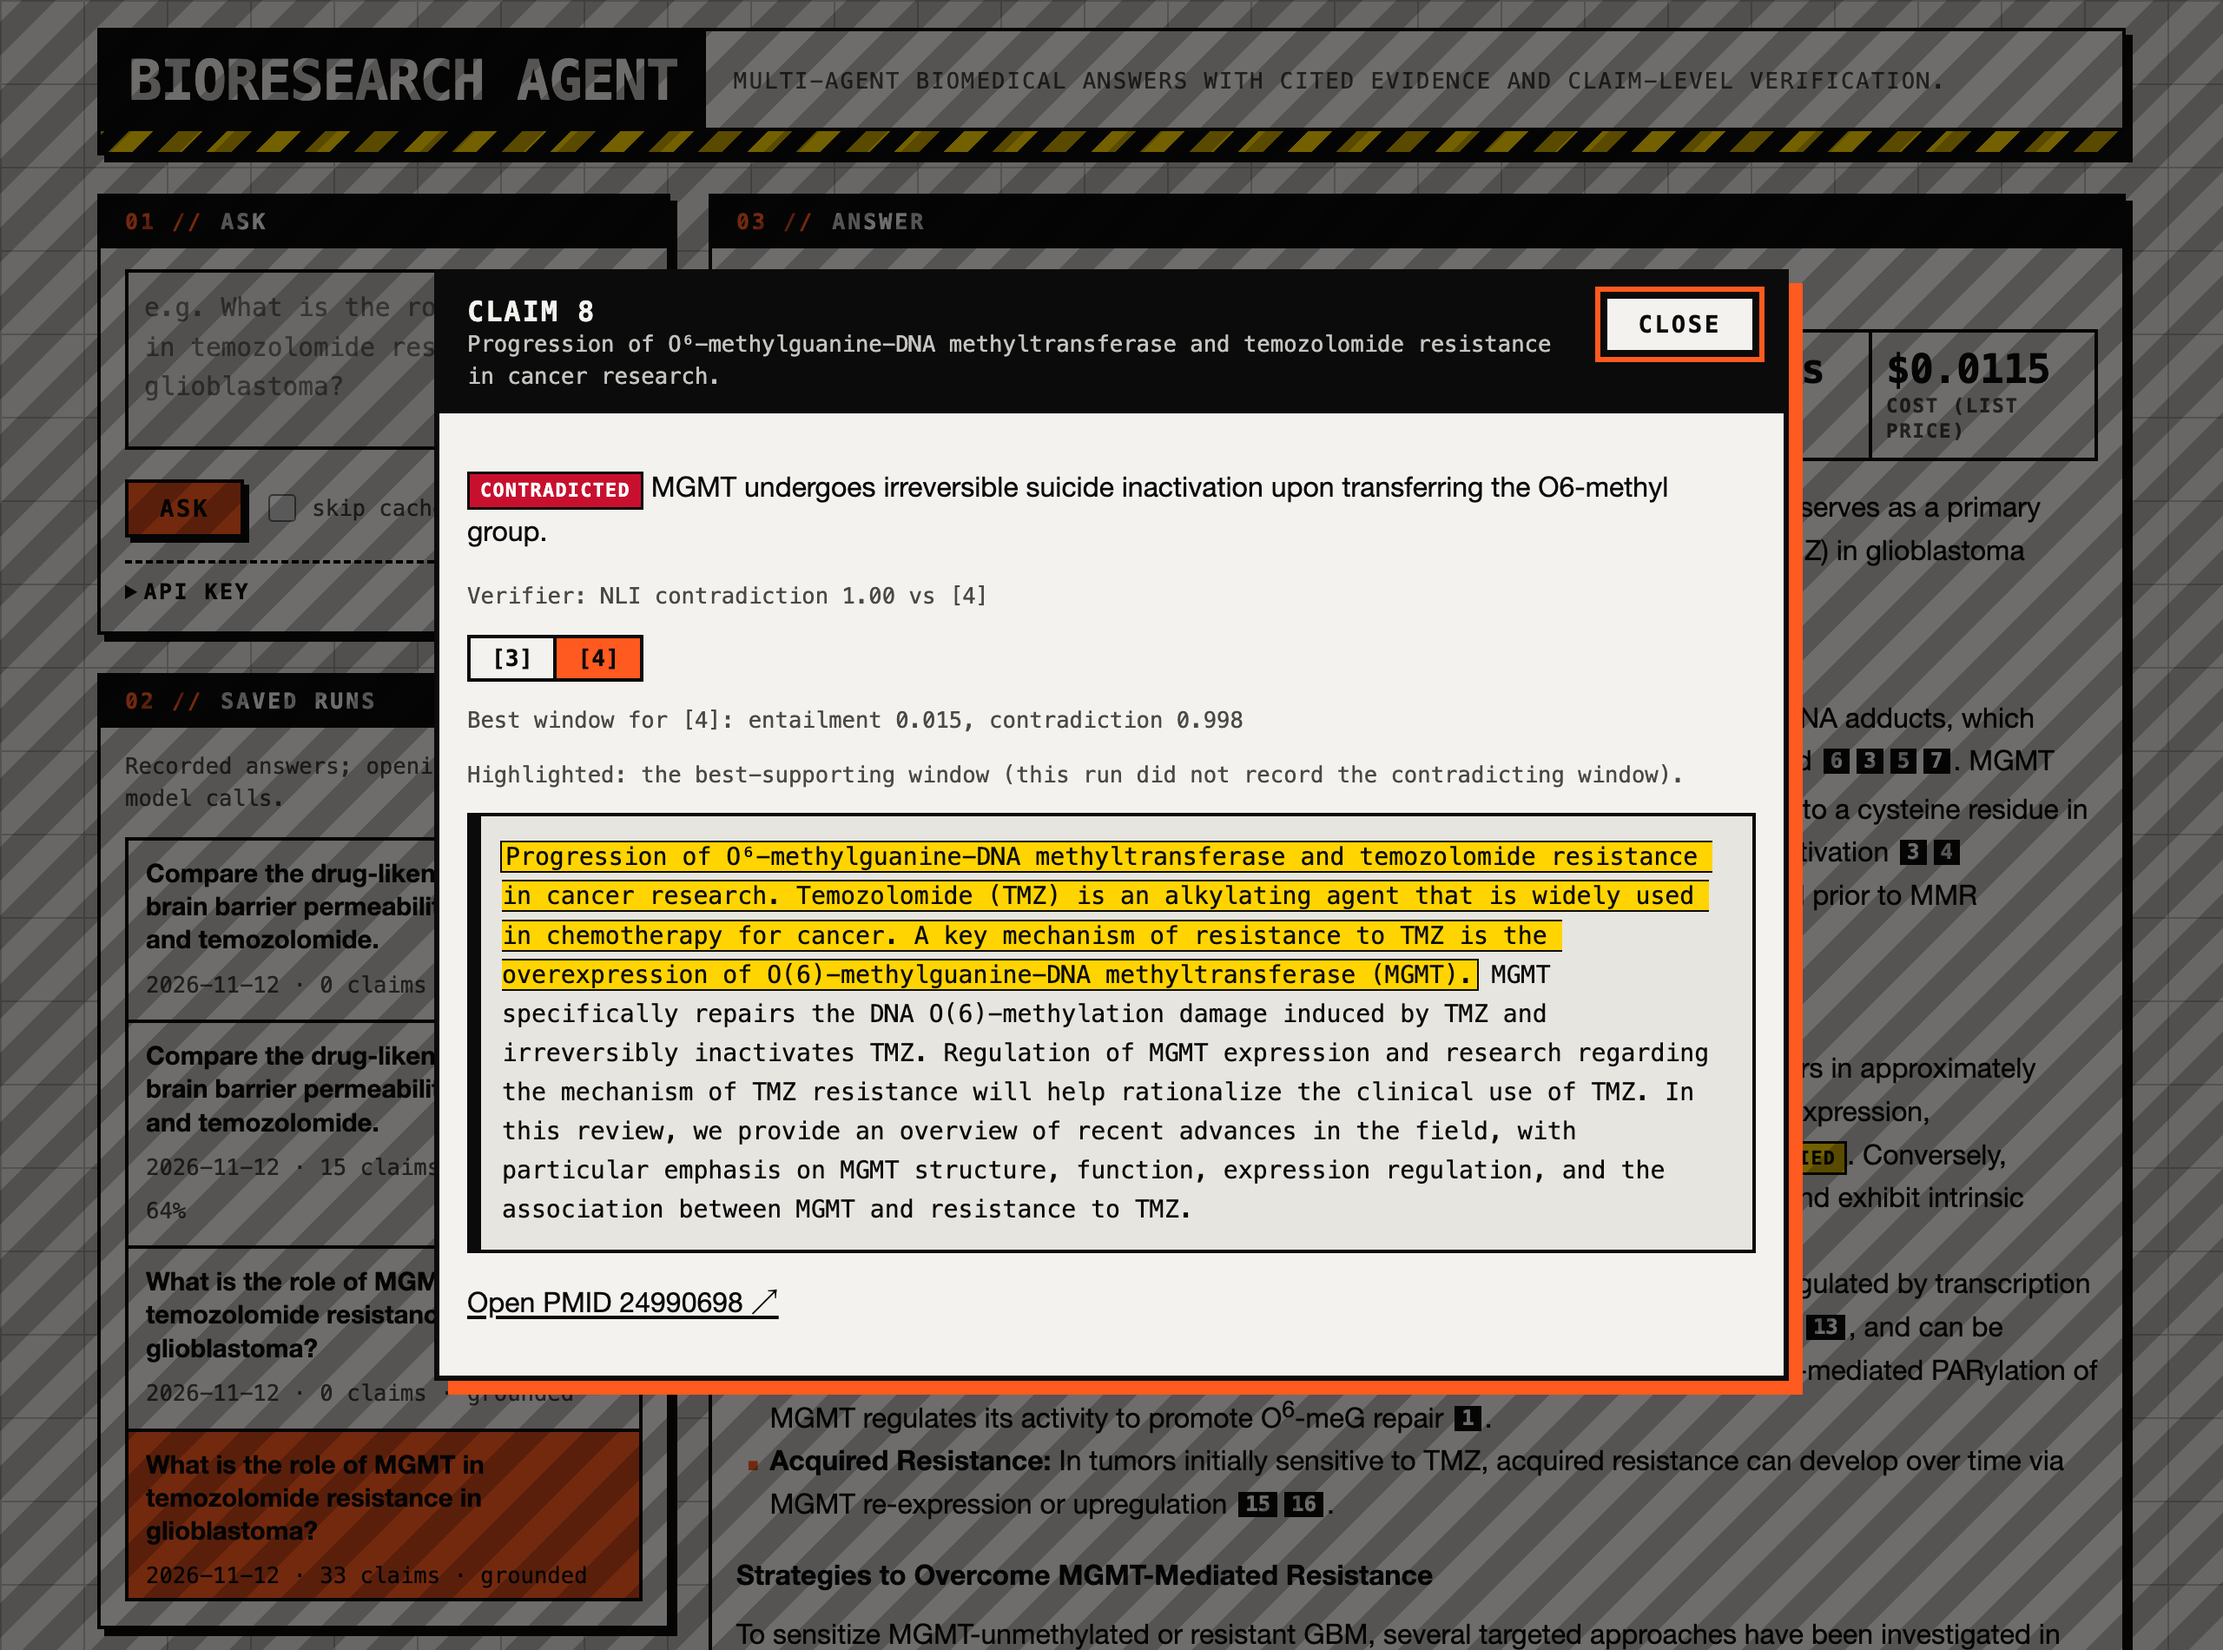
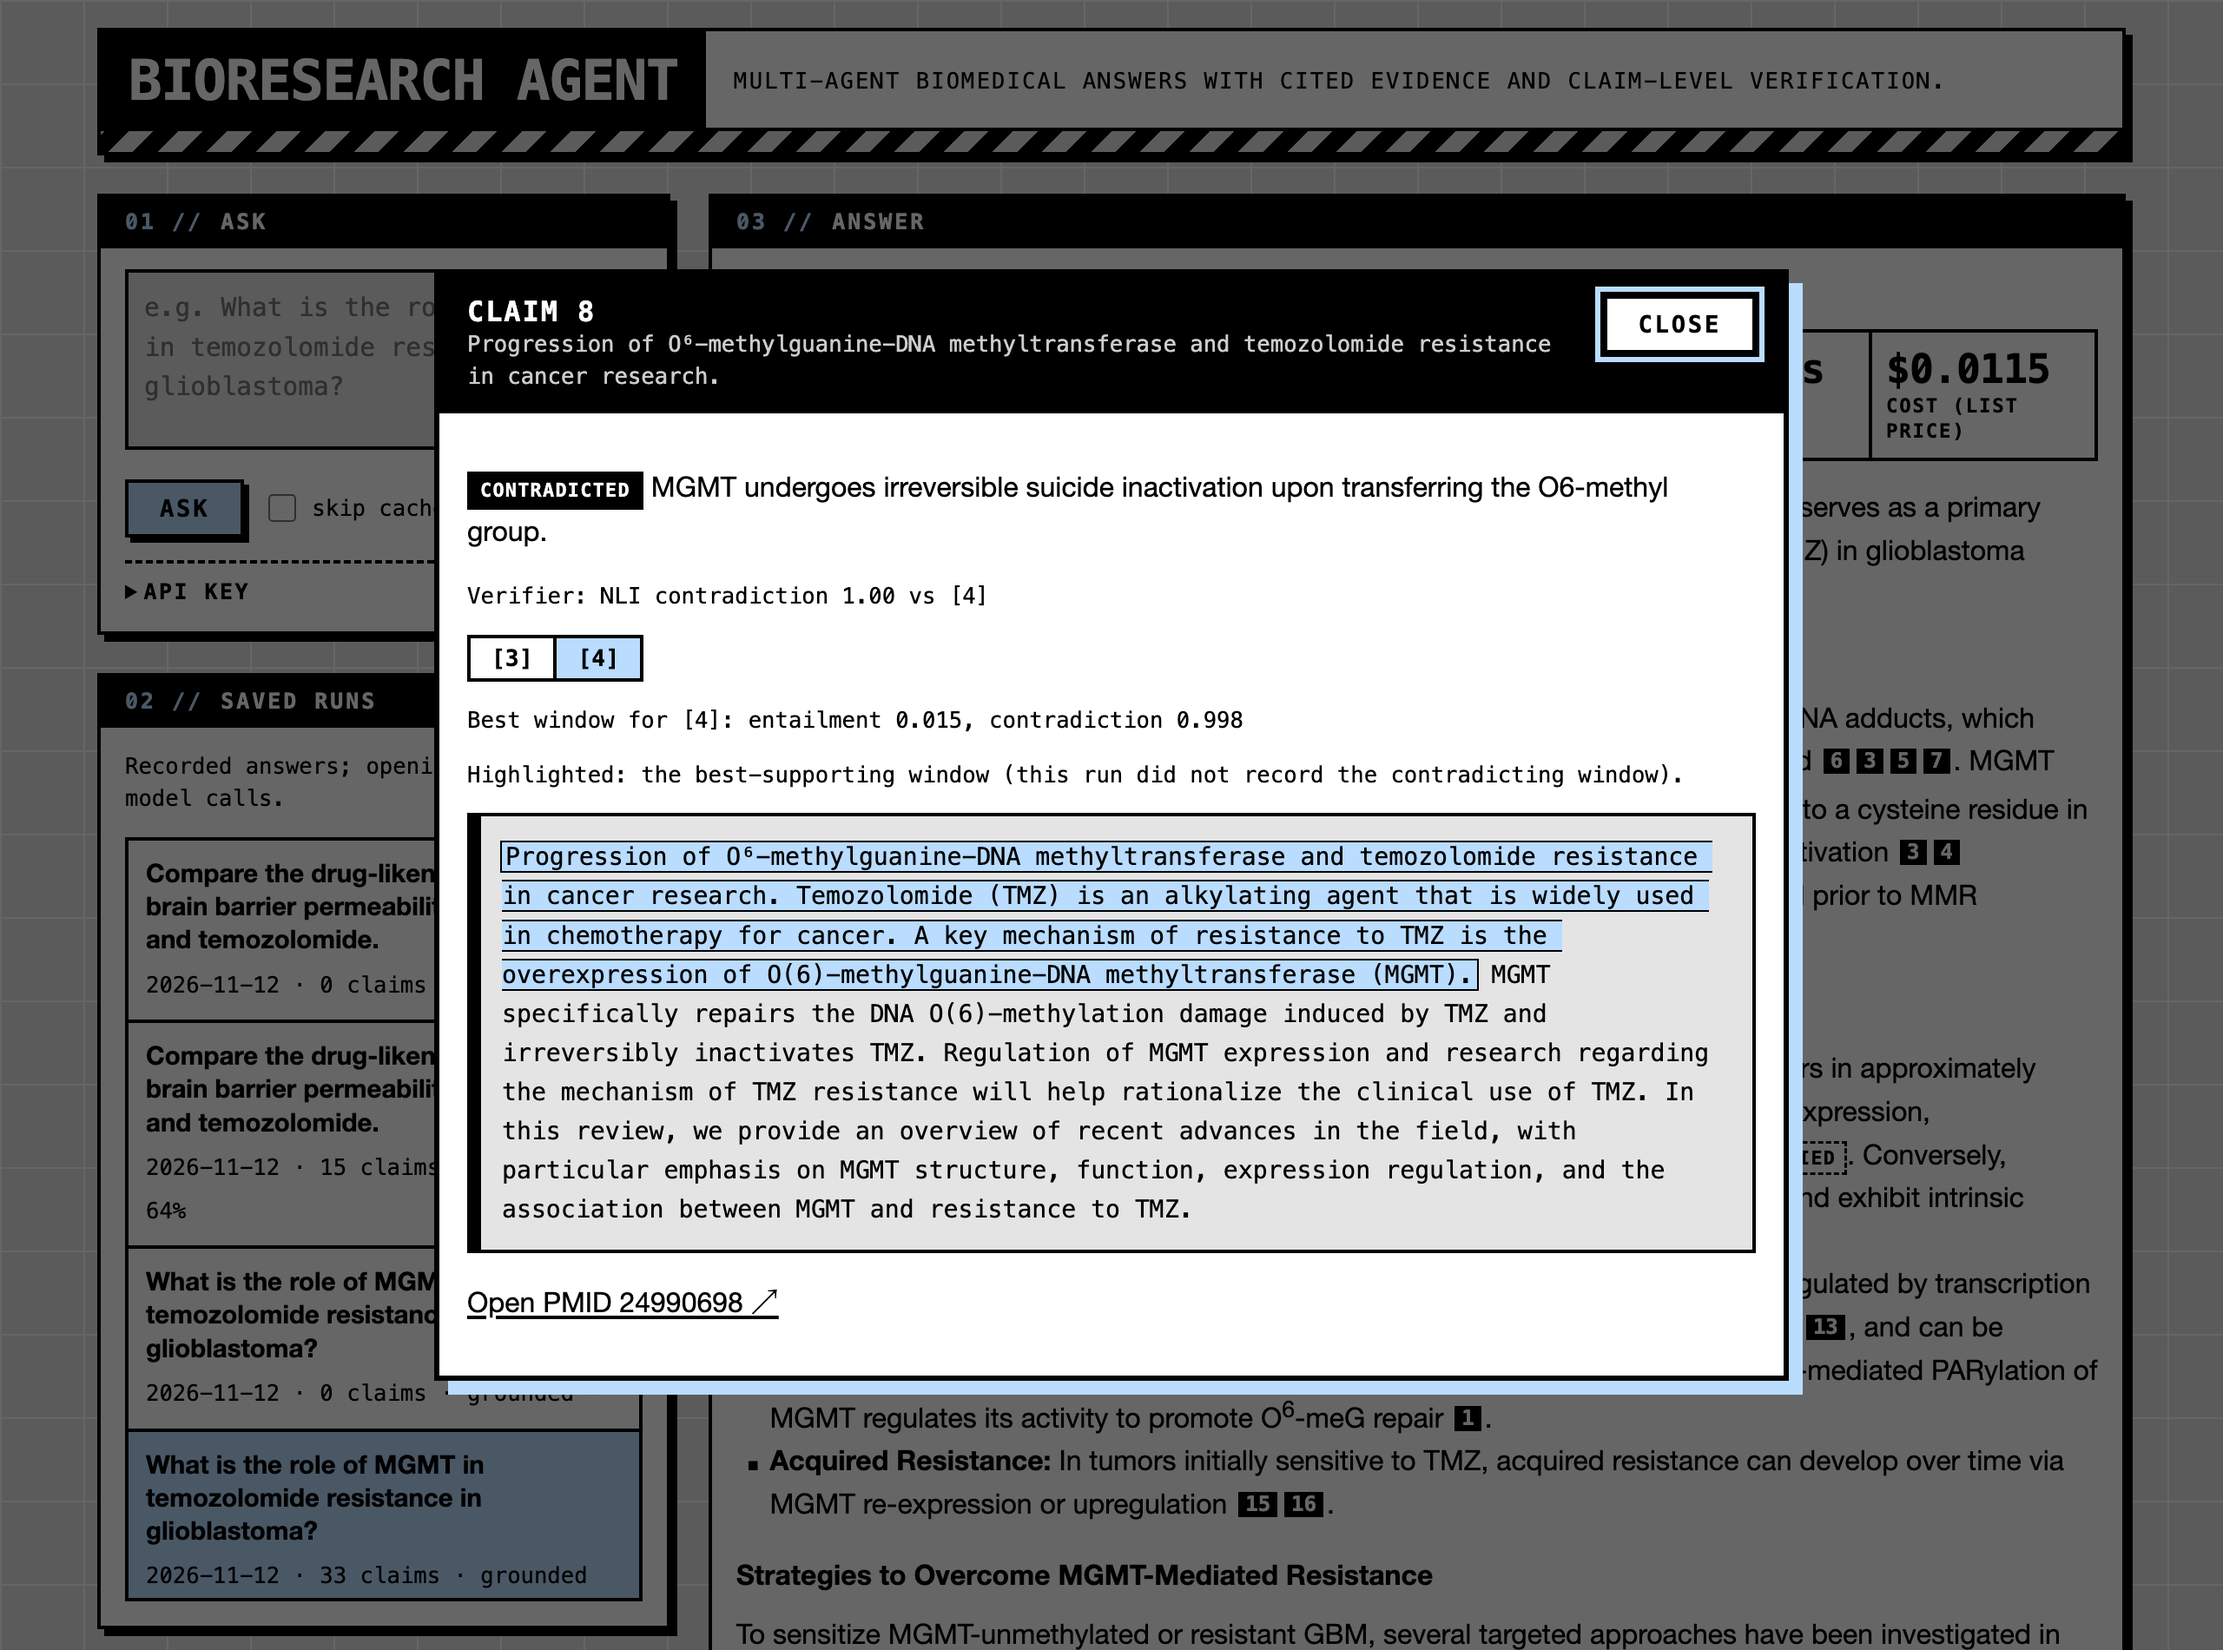
Web UI: palette limited to black, white, light grey and light blue
Light blue is the single accent (button, selection, groundedness cell, highlight, active
tab); the hazard band is black and light grey. Status badges stay distinguishable without
hue: supported light blue, contradicted solid black (white in dark mode), not enough info
white with a dashed border, computed light grey, removed grey struck through; the
unverified flag is dashed. No accent is used as a text colour. Screenshots regenerated.

diff --git a/src/bioagent/serve/static/index.html b/src/bioagent/serve/static/index.html
@@ -6,27 +6,30 @@
 <title>BioResearch Agent</title>
 <style>
 :root{
-  --bg:#e7e5df;--panel:#f3f2ee;--fg:#0b0b0b;--muted:#4a4943;--line:#0b0b0b;--rule:#b9b6ac;
-  --acc:#ff5a1f;--on-acc:#0b0b0b;--link:#0b0b0b;--plate:#0b0b0b;--on-plate:#f3f2ee;
-  --sup:#0b0b0b;--sup-bg:#7ee08a;--con:#ffffff;--con-bg:#c8102e;--nei:#0b0b0b;--nei-bg:#ffd400;
-  --cmp:#ffffff;--cmp-bg:#1f4fd1;--rem:#0b0b0b;--rem-bg:#c9c6bd;--abs:#ffffff;--abs-bg:#5b2ca0;
-  --mark:#ffd400;--shadow:4px 4px 0 #0b0b0b;--b:2px;
+  /* palette: black, white, light grey, light blue only */
+  --black:#000000;--white:#ffffff;--grey:#e4e4e4;--blue:#b9dcff;
+  --bg:var(--grey);--panel:var(--white);--fg:var(--black);--muted:var(--black);--line:var(--black);--rule:var(--grey);
+  --acc:var(--blue);--on-acc:var(--black);--link:var(--black);--plate:var(--black);--on-plate:var(--white);
+  --sup:var(--black);--sup-bg:var(--blue);--con:var(--white);--con-bg:var(--black);
+  --nei:var(--black);--nei-bg:var(--white);--cmp:var(--black);--cmp-bg:var(--grey);
+  --rem:var(--black);--rem-bg:var(--grey);--abs:var(--black);--abs-bg:var(--white);
+  --mark:var(--blue);--stripe:var(--grey);--shadow:4px 4px 0 var(--black);--b:2px;--grid:var(--white);--plate-acc:var(--blue);
   --mono:"JetBrains Mono","IBM Plex Mono",ui-monospace,SFMono-Regular,Menlo,Consolas,monospace;
   --grot:"Helvetica Neue",Helvetica,Arial,"Liberation Sans",sans-serif;
 }
 @media (prefers-color-scheme:dark){:root{
-  --bg:#0e0e0e;--panel:#161616;--fg:#ecebe5;--muted:#a8a69d;--line:#ecebe5;--rule:#3c3b37;
-  --acc:#ff6a2b;--on-acc:#0b0b0b;--link:#ecebe5;--plate:#ecebe5;--on-plate:#0e0e0e;
-  --sup:#0b0b0b;--sup-bg:#6fd37c;--con:#ffffff;--con-bg:#d81f3c;--nei:#0b0b0b;--nei-bg:#ffd400;
-  --cmp:#ffffff;--cmp-bg:#3a68ea;--rem:#0b0b0b;--rem-bg:#9e9b92;--abs:#ffffff;--abs-bg:#7a4bc4;
-  --mark:#ffd400;--shadow:4px 4px 0 #ff6a2b;
+  --bg:var(--black);--panel:var(--black);--fg:var(--white);--muted:var(--grey);--line:var(--white);--rule:var(--grey);
+  --acc:var(--blue);--on-acc:var(--black);--link:var(--white);--plate:var(--white);--on-plate:var(--black);
+  --sup:var(--black);--sup-bg:var(--blue);--con:var(--black);--con-bg:var(--white);
+  --nei:var(--white);--nei-bg:var(--black);--cmp:var(--black);--cmp-bg:var(--grey);
+  --rem:var(--black);--rem-bg:var(--grey);--abs:var(--white);--abs-bg:var(--black);
+  --mark:var(--blue);--stripe:var(--black);--shadow:4px 4px 0 var(--blue);--grid:var(--black);--plate-acc:var(--black);
 }}
 *{box-sizing:border-box}
 html{-webkit-text-size-adjust:100%}
 body{margin:0;background:var(--bg);color:var(--fg);font:16px/1.55 var(--grot);
-  background-image:linear-gradient(var(--rule) 1px,transparent 1px),linear-gradient(90deg,var(--rule) 1px,transparent 1px);
+  background-image:linear-gradient(var(--grid) 1px,transparent 1px),linear-gradient(90deg,var(--grid) 1px,transparent 1px);
   background-size:48px 48px;background-attachment:fixed}
-@media (prefers-color-scheme:dark){body{background-image:linear-gradient(var(--rule) 1px,transparent 1px),linear-gradient(90deg,var(--rule) 1px,transparent 1px)}}
 a{color:var(--link);text-decoration-thickness:2px;text-underline-offset:2px}
 a:hover{background:var(--acc);color:var(--on-acc)}
 button,input,textarea,select{font:inherit;color:inherit}
@@ -35,7 +38,7 @@ button,input,textarea,select{font:inherit;color:inherit}
 header{border:var(--b) solid var(--line);background:var(--panel);box-shadow:var(--shadow);margin-bottom:22px;
   display:flex;flex-wrap:wrap;align-items:stretch;position:relative;padding-bottom:12px}
 header::after{content:"";position:absolute;left:0;right:0;bottom:0;height:12px;
-  background:repeating-linear-gradient(-45deg,var(--plate) 0 10px,var(--nei-bg) 10px 20px);border-top:var(--b) solid var(--line)}
+  background:repeating-linear-gradient(-45deg,var(--plate) 0 10px,var(--stripe) 10px 20px);border-top:var(--b) solid var(--line)}
 header h1{margin:0;padding:12px 16px;font:800 clamp(1.3rem,3.2vw,2rem)/1.05 var(--mono);text-transform:uppercase;
   letter-spacing:-.02em;background:var(--plate);color:var(--on-plate)}
 header p{margin:0;padding:12px 16px;align-self:center;font:500 .8rem/1.4 var(--mono);text-transform:uppercase;
@@ -45,7 +48,7 @@ header p{margin:0;padding:12px 16px;align-self:center;font:500 .8rem/1.4 var(--m
 .panel{background:var(--panel);border:var(--b) solid var(--line);box-shadow:var(--shadow);padding:0 14px 14px;margin-bottom:22px;counter-increment:panel}
 .panel h2{margin:0 -14px 12px;padding:6px 14px;background:var(--plate);color:var(--on-plate);
   font:700 .78rem/1.4 var(--mono);text-transform:uppercase;letter-spacing:.12em;display:flex;gap:10px}
-.panel h2::before{content:counter(panel,decimal-leading-zero) " //";color:var(--acc)}
+.panel h2::before{content:counter(panel,decimal-leading-zero) " //";color:var(--plate-acc)}
 textarea,input[type=password],input[type=text]{width:100%;border:var(--b) solid var(--line);border-radius:0;background:var(--bg);padding:9px;font-family:var(--mono);font-size:.92rem}
 textarea{min-height:104px;resize:vertical}
 textarea:focus,input:focus{background:var(--panel)}
@@ -69,10 +72,10 @@ details summary{cursor:pointer;font:700 .78rem/1.4 var(--mono);text-transform:up
 .runs button[aria-current=true] .small{color:var(--on-acc)}
 .runs .q{display:block;font-weight:700;font-size:.92rem;margin-bottom:3px;line-height:1.3}
 .progress{list-style:none;margin:0;padding:0;font:500 .84rem/1.4 var(--mono);counter-reset:step}
-.progress li{counter-increment:step;padding:5px 0;border-bottom:1px solid var(--rule);display:flex;gap:10px}
+.progress li{counter-increment:step;padding:5px 0;border-bottom:1px dotted var(--rule);display:flex;gap:10px}
 .progress li::before{content:counter(step,decimal-leading-zero);color:var(--muted);min-width:22px}
 .progress .node{font-weight:800;min-width:96px;text-transform:uppercase}
-.progress li:last-child .node{color:var(--acc)}
+.progress li:last-child .node{background:var(--acc);color:var(--on-acc);padding:0 4px}
 .stats{display:grid;grid-template-columns:repeat(auto-fit,minmax(118px,1fr));gap:0;margin:0 0 14px;padding:0;list-style:none;border:var(--b) solid var(--line)}
 .stats li{padding:8px 10px;font:600 .7rem/1.3 var(--mono);text-transform:uppercase;letter-spacing:.08em;color:var(--muted);
   border-right:var(--b) solid var(--line);border-bottom:var(--b) solid var(--line);margin:0 -2px -2px 0}
@@ -80,22 +83,22 @@ details summary{cursor:pointer;font:700 .78rem/1.4 var(--mono);text-transform:up
 .stats li:first-child{background:var(--acc)}.stats li:first-child,.stats li:first-child b{color:var(--on-acc)}
 #qtext{font:700 1.05rem/1.35 var(--grot);color:var(--fg);margin:2px 0 12px}
 .answer{overflow-wrap:anywhere;font-size:1rem}
-.answer p{margin:.6em 0}.answer ul{padding-left:1.2em}.answer li::marker{content:"■  ";font-size:.7em;color:var(--acc)}
+.answer p{margin:.6em 0}.answer ul{padding-left:1.2em}.answer li::marker{content:"■  ";font-size:.7em;color:var(--fg)}
 .answer strong{font-weight:800}
 .cite{border:0;background:var(--plate);color:var(--on-plate);padding:0 4px;margin:0 2px;cursor:pointer;font:700 .75em/1.2 var(--mono);vertical-align:.12em}
 .cite:hover{background:var(--acc);color:var(--on-acc)}
-.flag{font:800 .68rem/1 var(--mono);text-transform:uppercase;letter-spacing:.06em;padding:2px 5px;background:var(--nei-bg);color:#0b0b0b;border:1.5px solid #0b0b0b;white-space:nowrap}
+.flag{font:800 .68rem/1 var(--mono);text-transform:uppercase;letter-spacing:.06em;padding:2px 5px;background:var(--panel);color:var(--fg);border:1.5px dashed var(--line);white-space:nowrap}
 table{width:100%;border-collapse:collapse;font-size:.92rem;border:var(--b) solid var(--line)}
-th,td{text-align:left;vertical-align:top;padding:8px 8px;border-bottom:1px solid var(--rule)}
+th,td{text-align:left;vertical-align:top;padding:8px 8px;border-bottom:1px dotted var(--rule)}
 th{background:var(--plate);color:var(--on-plate);font:700 .72rem/1.3 var(--mono);text-transform:uppercase;letter-spacing:.1em}
 td:first-child,td:last-child{font-family:var(--mono);font-size:.84rem;white-space:nowrap}
 tbody tr:hover{background:var(--bg)}
 .tablewrap{overflow-x:auto}
 .claimbtn{border:none;background:none;text-align:left;padding:0;cursor:pointer;color:inherit;font:inherit}
-.claimbtn:hover{text-decoration:underline;text-decoration-thickness:2px;text-decoration-color:var(--acc)}
-.badge{display:inline-block;font:800 .68rem/1 var(--mono);text-transform:uppercase;letter-spacing:.06em;padding:4px 6px;white-space:nowrap;border:1.5px solid #0b0b0b}
+.claimbtn:hover{text-decoration:underline;text-decoration-thickness:2px}
+.badge{display:inline-block;font:800 .68rem/1 var(--mono);text-transform:uppercase;letter-spacing:.06em;padding:4px 6px;white-space:nowrap;border:1.5px solid var(--line)}
 .b-supported{color:var(--sup);background:var(--sup-bg)}.b-contradicted{color:var(--con);background:var(--con-bg)}
-.b-not_supported{color:var(--nei);background:var(--nei-bg)}.b-computed{color:var(--cmp);background:var(--cmp-bg)}
+.b-not_supported{color:var(--nei);background:var(--nei-bg);border-style:dashed}.b-computed{color:var(--cmp);background:var(--cmp-bg)}
 .b-removed{color:var(--rem);background:var(--rem-bg);text-decoration:line-through}.b-absence{color:var(--abs);background:var(--abs-bg)}
 .b-unchecked{color:var(--fg);background:var(--panel)}
 .refs{padding-left:2.4em;font-size:.9rem}
@@ -103,7 +106,7 @@ tbody tr:hover{background:var(--bg)}
 .refs li::marker{font:700 .8rem var(--mono)}
 dialog{border:3px solid var(--line);border-radius:0;background:var(--panel);color:var(--fg);width:min(780px,calc(100vw - 24px));
   max-height:calc(100vh - 32px);padding:0;box-shadow:8px 8px 0 var(--acc)}
-dialog::backdrop{background:repeating-linear-gradient(-45deg,rgba(0,0,0,.55) 0 14px,rgba(0,0,0,.65) 14px 28px)}
+dialog::backdrop{background:rgba(0,0,0,.6)}
 .dlg-head{display:flex;justify-content:space-between;align-items:flex-start;gap:12px;padding:12px 16px;background:var(--plate);color:var(--on-plate)}
 .dlg-head h3{font:800 1rem/1.2 var(--mono)!important;text-transform:uppercase;letter-spacing:.06em}
 .dlg-head .small{color:var(--on-plate);opacity:.8}
@@ -114,9 +117,9 @@ dialog::backdrop{background:repeating-linear-gradient(-45deg,rgba(0,0,0,.55) 0 1
 .tabs button:last-child{border-right:0}
 .tabs button[aria-selected=true]{background:var(--acc);color:var(--on-acc)}
 .passage{white-space:pre-wrap;background:var(--bg);border:var(--b) solid var(--line);border-left-width:8px;padding:12px;font:400 .88rem/1.6 var(--mono)}
-mark{background:var(--mark);color:#0b0b0b;padding:0 2px;box-shadow:0 0 0 1px #0b0b0b}
+mark{background:var(--mark);color:var(--black);padding:0 2px;box-shadow:0 0 0 1px var(--black)}
 .empty{font:500 .82rem/1.45 var(--mono);color:var(--muted);text-transform:uppercase;letter-spacing:.06em}
-.err{color:var(--con-bg);font-family:var(--mono);font-weight:700}
+.err{color:var(--fg);font-family:var(--mono);font-weight:700;border-left:4px solid var(--line);padding-left:6px}
 .sr{position:absolute;width:1px;height:1px;overflow:hidden;clip:rect(0 0 0 0)}
 @media (prefers-reduced-motion:reduce){.btn{transition:none}}
 </style>
